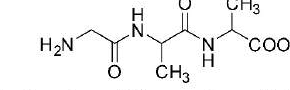
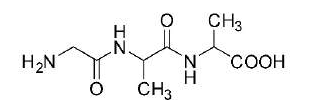
Fix cropped chemical figures: clean amino acid q19, peptide q4, q18, q19, q21, q30, q40, p3_q4, p3_q5 and alliin

Changed region(s): [[0.0621, 0.0, 1.0, 0.9333], [0.7759, 0.0, 0.9, 0.1778]]

diff --git a/assets/js/lab-chem.js b/assets/js/lab-chem.js
@@ -571,8 +571,8 @@
         <div class="slide-q-text">${q.prompt || q.question || ''}</div>
 
         ${q.figure ? `
-          <div class="slide-q-figure" onclick="window.ChemQuizApp.zoomImage('${q.figure}', '${escapeAttr(exam.title + ' • ' + q.label)}')" title="Nhấn vào hình để phóng to toàn màn hình">
-            <img src="${q.figure}?v=20261030_v2" alt="${q.label}" class="slide-q-figure-img" onerror="this.onerror=null;this.src='${q.figure}'" />
+          <div class="slide-q-figure" onclick="window.ChemQuizApp.zoomImage('${q.figure}?v=20261030_v3', '${escapeAttr(exam.title + ' • ' + q.label)}')" title="Nhấn vào hình để phóng to toàn màn hình">
+            <img src="${q.figure}?v=20261030_v3" alt="${q.label}" class="slide-q-figure-img" onerror="this.onerror=null;this.src='${q.figure}'" />
             <div class="slide-q-figure-caption">🔍 Nhấn để phóng to hình ảnh chi tiết</div>
           </div>
         ` : ''}

diff --git a/index.html b/index.html
@@ -450,9 +450,9 @@
   <script src="assets/js/lab-math-data.js?v=20261021_pbc11"></script>
   <script src="assets/js/lab-math-kha-data.js?v=20261029_fix_p2_tf"></script>
   <script src="assets/js/lab-math.js?v=20261029_fix_p2_tf"></script>
-  <script src="assets/js/lab-chem-data.js?v=20261030_v2"></script>
-  <script src="assets/js/lab-chem-bai9-data.js?v=20261030_v2"></script>
-  <script src="assets/js/lab-chem.js?v=20261030_v2"></script>
+  <script src="assets/js/lab-chem-data.js?v=20261030_v3"></script>
+  <script src="assets/js/lab-chem-bai9-data.js?v=20261030_v3"></script>
+  <script src="assets/js/lab-chem.js?v=20261030_v3"></script>
   <script src="assets/js/lab-phys-data.js?v=20261026_4de"></script>
   <script src="assets/js/lab-phys.js?v=20261026_4de"></script>
   

diff --git a/lab.html b/lab.html
@@ -441,9 +441,9 @@
   <script src="assets/js/lab-math-data.js?v=20261021_pbc11"></script>
   <script src="assets/js/lab-math-kha-data.js?v=20261029_fix_p2_tf"></script>
   <script src="assets/js/lab-math.js?v=20261029_fix_p2_tf"></script>
-  <script src="assets/js/lab-chem-data.js?v=20261030_v2"></script>
-  <script src="assets/js/lab-chem-bai9-data.js?v=20261030_v2"></script>
-  <script src="assets/js/lab-chem.js?v=20261030_v2"></script>
+  <script src="assets/js/lab-chem-data.js?v=20261030_v3"></script>
+  <script src="assets/js/lab-chem-bai9-data.js?v=20261030_v3"></script>
+  <script src="assets/js/lab-chem.js?v=20261030_v3"></script>
   <script src="assets/js/lab-phys-data.js?v=20261026_4de"></script>
   <script src="assets/js/lab-phys.js?v=20261026_4de"></script>
   
